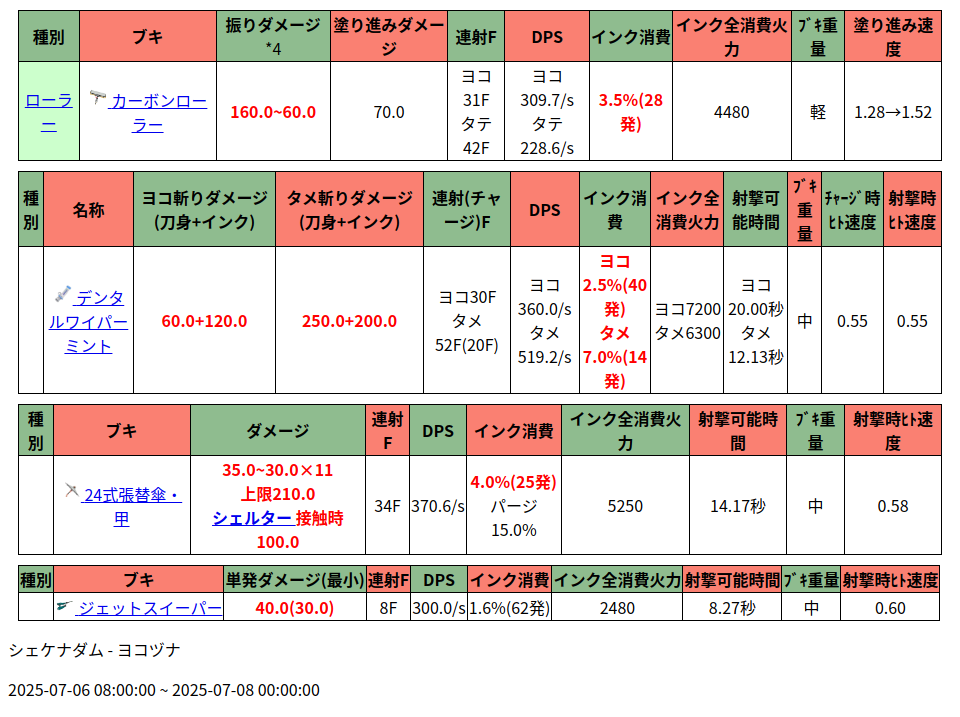
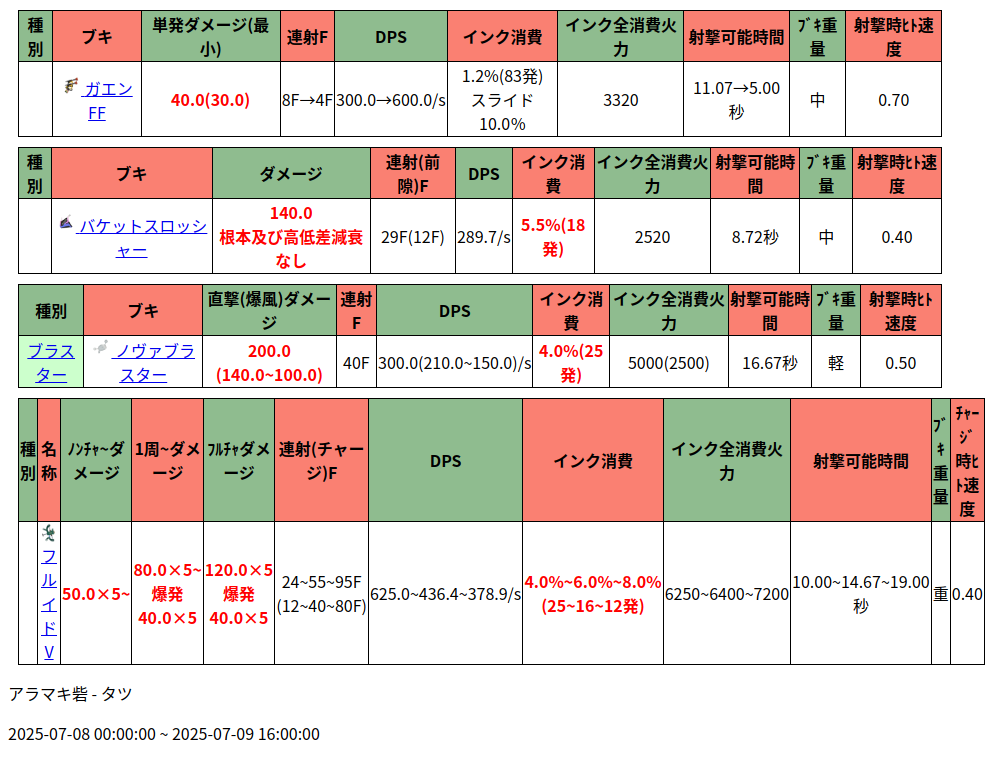
Automated changes by GitHub Actions

diff --git a/salmonRun.html b/salmonRun.html
@@ -1,1 +1,1 @@
-<head><meta charset="UTF-8"><style>table{border-collapse: collapse;border: 1px solid black;margin:10px;}td, th {border: 1px solid black;}</style></head><table><thead> <tr>  <td style="background-color:DarkSeaGreen; text-align:center;">   <strong>    種別   </strong>  </td>  <td style="background-color:Salmon; text-align:center;">   <strong>    ブキ   </strong>  </td>  <td style="background-color:DarkSeaGreen; text-align:center;">   <strong>    振りダメージ   </strong>   <a class="note_super tooltip" data-tippy-allowhtml="true" data-tippy-content='&lt;p&gt;距離によってダメージが変動し、時間経過によって最大0.5倍の減衰がかかる。&lt;/p&gt;&lt;div style="text-align: right;"&gt;&lt;a href="#notefoot_4"&gt;脚注 *4 へ&lt;/a&gt;&lt;/div&gt;' data-tippy-interactive="true" data-tippy-theme="light" id="notetext_4">    *4   </a>  </td>  <td style="background-color:Salmon; text-align:center;">   <strong>    塗り進みダメージ   </strong>  </td>  <td style="background-color:DarkSeaGreen; text-align:center;">   <strong>    連射F   </strong>  </td>  <td style="background-color:Salmon; text-align:center;">   <strong>    DPS   </strong>  </td>  <td style="background-color:DarkSeaGreen; text-align:center;">   <strong>    インク消費   </strong>  </td>  <td style="background-color:Salmon; text-align:center;">   <strong>    インク全消費火力   </strong>  </td>  <td style="background-color:DarkSeaGreen; text-align:center;">   <strong>    ﾌﾞｷ重量   </strong>  </td>  <td style="background-color:Salmon; text-align:center;">   <strong>    塗り進み速度   </strong>  </td> </tr></thead><tr> <td rowspan="6" style="background-color:#ccffcc; text-align:center;">  <a class="rel-wiki-page" href="/splatoon3mix/%E3%83%96%E3%82%AD/%E3%83%AD%E3%83%BC%E3%83%A9%E3%83%BC%E5%B1%9E" title="ブキ/ローラー属">   ローラー  </a> </td> <td style="text-align:center;">  <a data-lightbox="imageset" href="https://cdn.wikiwiki.jp/to/w/splatoon3mix/icon/::attach/%E3%82%AB%E3%83%BC%E3%83%9C%E3%83%B3%E3%83%AD%E3%83%BC%E3%83%A9%E3%83%BC.png?rev=2d3ede75f6260c236cbdeca7d4f8b50d&amp;t=20220905220112" title="カーボンローラー">   <img alt="カーボンローラー" height="20" loading="lazy" src="https://cdn.wikiwiki.jp/to/w/splatoon3mix/icon/::ref/%E3%82%AB%E3%83%BC%E3%83%9C%E3%83%B3%E3%83%AD%E3%83%BC%E3%83%A9%E3%83%BC.png?rev=2d3ede75f6260c236cbdeca7d4f8b50d&amp;t=20220905220112" title="カーボンローラー" width="20"/>  </a>  <a class="rel-wiki-page" href="/splatoon3mix/%E3%83%96%E3%82%AD/%E3%82%AB%E3%83%BC%E3%83%9C%E3%83%B3%E3%83%AD%E3%83%BC%E3%83%A9%E3%83%BC" title="ブキ/カーボンローラー">   カーボンローラー  </a> </td> <td style="text-align:center;">  <span class="wikicolor" style="color:Red">   <strong>    160.0~60.0   </strong>  </span> </td> <td style="text-align:center;">  70.0 </td> <td style="text-align:center;">  ヨコ31F  <br class="spacer"/>  タテ42F </td> <td style="text-align:center;">  ヨコ309.7/s  <br class="spacer"/>  タテ228.6/s </td> <td style="text-align:center;">  <span class="wikicolor" style="color:Red">   <strong>    3.5%(28発)   </strong>  </span> </td> <td style="text-align:center;">  4480 </td> <td style="text-align:center;">  軽 </td> <td style="text-align:center;">  1.28→1.52 </td></tr></table><table><thead> <tr>  <td style="background-color:DarkSeaGreen; text-align:center;">   <strong>    種別   </strong>  </td>  <td style="background-color:Salmon; text-align:center;">   <strong>    名称   </strong>  </td>  <td style="background-color:DarkSeaGreen; text-align:center;">   <strong>    ヨコ斬りダメージ(刀身+インク)   </strong>  </td>  <td style="background-color:Salmon; text-align:center;">   <strong>    タメ斬りダメージ(刀身+インク)   </strong>  </td>  <td style="background-color:DarkSeaGreen; text-align:center;">   <strong>    連射(チャージ)F   </strong>  </td>  <td style="background-color:Salmon; text-align:center;">   <strong>    DPS   </strong>  </td>  <td style="background-color:DarkSeaGreen; text-align:center;">   <strong>    インク消費   </strong>  </td>  <td style="background-color:Salmon; text-align:center;">   <strong>    インク全消費火力   </strong>  </td>  <td style="background-color:DarkSeaGreen; text-align:center;">   <strong>    射撃可能時間   </strong>  </td>  <td style="background-color:Salmon; text-align:center;">   <strong>    ﾌﾞｷ重量   </strong>  </td>  <td style="background-color:DarkSeaGreen; text-align:center;">   <strong>    ﾁｬｰｼﾞ時ﾋﾄ速度   </strong>  </td>  <td style="background-color:Salmon; text-align:center;">   <strong>    射撃時ﾋﾄ速度   </strong>  </td> </tr></thead><tr><td></td> <td style="text-align:center;">  <a data-lightbox="imageset" href="https://cdn.wikiwiki.jp/to/w/splatoon3mix/icon/::attach/%E3%83%87%E3%83%B3%E3%82%BF%E3%83%AB%E3%83%AF%E3%82%A4%E3%83%91%E3%83%BC%E3%83%9F%E3%83%B3%E3%83%88.png?rev=736086270d4b8468d43786bb5e35c5ba&amp;t=20240603134347" title="デンタルワイパーミント">   <img alt="デンタルワイパーミント" height="20" loading="lazy" src="https://cdn.wikiwiki.jp/to/w/splatoon3mix/icon/::ref/%E3%83%87%E3%83%B3%E3%82%BF%E3%83%AB%E3%83%AF%E3%82%A4%E3%83%91%E3%83%BC%E3%83%9F%E3%83%B3%E3%83%88.png.webp?rev=736086270d4b8468d43786bb5e35c5ba&amp;t=20240603134347" title="デンタルワイパーミント" width="20"/>  </a>  <a class="rel-wiki-page" href="/splatoon3mix/%E3%83%96%E3%82%AD/%E3%83%87%E3%83%B3%E3%82%BF%E3%83%AB%E3%83%AF%E3%82%A4%E3%83%91%E3%83%BC%E3%83%9F%E3%83%B3%E3%83%88" title="ブキ/デンタルワイパーミント">   デンタルワイパーミント  </a> </td> <td style="text-align:center;">  <span class="wikicolor" style="color:Red">   <strong>    60.0+120.0   </strong>  </span> </td> <td style="text-align:center;">  <span class="wikicolor" style="color:Red">   <strong>    250.0+200.0   </strong>  </span> </td> <td style="text-align:center;">  ヨコ30F  <br class="spacer"/>  タメ52F(20F) </td> <td style="text-align:center;">  ヨコ360.0/s  <br class="spacer"/>  タメ519.2/s </td> <td style="text-align:center;">  <span class="wikicolor" style="color:Red">   <strong>    ヨコ2.5%(40発)    <br class="spacer"/>    タメ7.0%(14発)   </strong>  </span> </td> <td style="text-align:center;">  ヨコ7200  <br class="spacer"/>  タメ6300 </td> <td style="text-align:center;">  ヨコ20.00秒  <br class="spacer"/>  タメ12.13秒 </td> <td style="text-align:center;">  中 </td> <td style="text-align:center;">  0.55 </td> <td style="text-align:center;">  0.55 </td></tr></table><table><thead> <tr>  <td style="background-color:DarkSeaGreen; text-align:center;">   <strong>    種別   </strong>  </td>  <td style="background-color:Salmon; text-align:center;">   <strong>    ブキ   </strong>  </td>  <td style="background-color:DarkSeaGreen; text-align:center;">   <strong>    ダメージ   </strong>  </td>  <td style="background-color:Salmon; text-align:center;">   <strong>    連射F   </strong>  </td>  <td style="background-color:DarkSeaGreen; text-align:center;">   <strong>    DPS   </strong>  </td>  <td style="background-color:Salmon; text-align:center;">   <strong>    インク消費   </strong>  </td>  <td style="background-color:DarkSeaGreen; text-align:center;">   <strong>    インク全消費火力   </strong>  </td>  <td style="background-color:Salmon; text-align:center;">   <strong>    射撃可能時間   </strong>  </td>  <td style="background-color:DarkSeaGreen; text-align:center;">   <strong>    ﾌﾞｷ重量   </strong>  </td>  <td style="background-color:Salmon; text-align:center;">   <strong>    射撃時ﾋﾄ速度   </strong>  </td> </tr></thead><tr><td></td> <td style="text-align:center;">  <a data-lightbox="imageset" href="https://cdn.wikiwiki.jp/to/w/splatoon3mix/icon/::attach/24%E5%BC%8F%E5%BC%B5%E6%9B%BF%E5%82%98%E3%83%BB%E7%94%B2.png?rev=90601185def0aa32e513a2fd8fac9f37&amp;t=20240302124644" title="24式張替傘・甲">   <img alt="24式張替傘・甲" height="20" loading="lazy" src="https://cdn.wikiwiki.jp/to/w/splatoon3mix/icon/::ref/24%E5%BC%8F%E5%BC%B5%E6%9B%BF%E5%82%98%E3%83%BB%E7%94%B2.png?rev=90601185def0aa32e513a2fd8fac9f37&amp;t=20240302124644" title="24式張替傘・甲" width="20"/>  </a>  <a class="rel-wiki-page" href="/splatoon3mix/%E3%83%96%E3%82%AD/24%E5%BC%8F%E5%BC%B5%E6%9B%BF%E5%82%98%E3%83%BB%E7%94%B2" title="ブキ/24式張替傘・甲">   24式張替傘・甲  </a> </td> <td style="text-align:center;">  <span class="wikicolor" style="color:Red">   <strong>    35.0~30.0×11    <br class="spacer"/>    上限210.0    <br class="spacer"/>    <a class="rel-wiki-page" href="/splatoon3mix/%E3%83%96%E3%82%AD/%E3%82%B7%E3%82%A7%E3%83%AB%E3%82%BF%E3%83%BC%E5%B1%9E" title="ブキ/シェルター属">     シェルター    </a>    接触時100.0   </strong>  </span> </td> <td style="text-align:center;">  34F </td> <td style="text-align:center;">  370.6/s </td> <td style="text-align:center;">  <span class="wikicolor" style="color:Red">   <strong>    4.0%(25発)   </strong>  </span>  <br class="spacer"/>  パージ15.0% </td> <td style="text-align:center;">  5250 </td> <td style="text-align:center;">  14.17秒 </td> <td style="text-align:center;">  中 </td> <td style="text-align:center;">  0.58 </td></tr></table><table><thead> <tr>  <td style="background-color:DarkSeaGreen; text-align:center;">   <strong>    種別   </strong>  </td>  <td style="background-color:Salmon; text-align:center;">   <strong>    ブキ   </strong>  </td>  <td style="background-color:DarkSeaGreen; text-align:center;">   <strong>    単発ダメージ(最小)   </strong>  </td>  <td style="background-color:Salmon; text-align:center;">   <strong>    連射F   </strong>  </td>  <td style="background-color:DarkSeaGreen; text-align:center;">   <strong>    DPS   </strong>  </td>  <td style="background-color:Salmon; text-align:center;">   <strong>    インク消費   </strong>  </td>  <td style="background-color:DarkSeaGreen; text-align:center;">   <strong>    インク全消費火力   </strong>  </td>  <td style="background-color:Salmon; text-align:center;">   <strong>    射撃可能時間   </strong>  </td>  <td style="background-color:DarkSeaGreen; text-align:center;">   <strong>    ﾌﾞｷ重量   </strong>  </td>  <td style="background-color:Salmon; text-align:center;">   <strong>    射撃時ﾋﾄ速度   </strong>  </td> </tr></thead><tr><td></td> <td style="text-align:center;">  <a data-lightbox="imageset" href="https://cdn.wikiwiki.jp/to/w/splatoon3mix/icon/::attach/%E3%82%B8%E3%82%A7%E3%83%83%E3%83%88%E3%82%B9%E3%82%A4%E3%83%BC%E3%83%91%E3%83%BC.png?rev=859c320f86fd727ddbec3f1526388c2a&amp;t=20220905214623" title="ジェットスイーパー">   <img alt="ジェットスイーパー" height="20" loading="lazy" src="https://cdn.wikiwiki.jp/to/w/splatoon3mix/icon/::ref/%E3%82%B8%E3%82%A7%E3%83%83%E3%83%88%E3%82%B9%E3%82%A4%E3%83%BC%E3%83%91%E3%83%BC.png?rev=859c320f86fd727ddbec3f1526388c2a&amp;t=20220905214623" title="ジェットスイーパー" width="20"/>  </a>  <a class="rel-wiki-page" href="/splatoon3mix/%E3%83%96%E3%82%AD/%E3%82%B8%E3%82%A7%E3%83%83%E3%83%88%E3%82%B9%E3%82%A4%E3%83%BC%E3%83%91%E3%83%BC" title="ブキ/ジェットスイーパー">   ジェットスイーパー  </a> </td> <td style="text-align:center;">  <span class="wikicolor" style="color:Red">   <strong>    40.0(30.0)   </strong>  </span> </td> <td style="text-align:center;">  8F </td> <td style="text-align:center;">  300.0/s </td> <td style="text-align:center;">  1.6%(62発) </td> <td style="text-align:center;">  2480 </td> <td style="text-align:center;">  8.27秒 </td> <td style="text-align:center;">  中 </td> <td style="text-align:center;">  0.60 </td></tr></table><p>シェケナダム - ヨコヅナ</p><p>2025-07-06 08:00:00 ~ 2025-07-08 00:00:00</p>
+<head><meta charset="UTF-8"><style>table{border-collapse: collapse;border: 1px solid black;margin:10px;}td, th {border: 1px solid black;}</style></head><table><thead> <tr>  <td style="background-color:DarkSeaGreen; text-align:center;">   <strong>    種別   </strong>  </td>  <td style="background-color:Salmon; text-align:center;">   <strong>    ブキ   </strong>  </td>  <td style="background-color:DarkSeaGreen; text-align:center;">   <strong>    単発ダメージ(最小)   </strong>  </td>  <td style="background-color:Salmon; text-align:center;">   <strong>    連射F   </strong>  </td>  <td style="background-color:DarkSeaGreen; text-align:center;">   <strong>    DPS   </strong>  </td>  <td style="background-color:Salmon; text-align:center;">   <strong>    インク消費   </strong>  </td>  <td style="background-color:DarkSeaGreen; text-align:center;">   <strong>    インク全消費火力   </strong>  </td>  <td style="background-color:Salmon; text-align:center;">   <strong>    射撃可能時間   </strong>  </td>  <td style="background-color:DarkSeaGreen; text-align:center;">   <strong>    ﾌﾞｷ重量   </strong>  </td>  <td style="background-color:Salmon; text-align:center;">   <strong>    射撃時ﾋﾄ速度   </strong>  </td> </tr></thead><tr><td></td> <td style="text-align:center;">  <a data-lightbox="imageset" href="https://cdn.wikiwiki.jp/to/w/splatoon3mix/icon/::attach/%E3%82%AC%E3%82%A8%E3%83%B3FF.png?rev=c59ffedf75a4c75c89c11f6b80984cd3&amp;t=20240302124703" title="ガエンFF">   <img alt="ガエンFF" height="20" loading="lazy" src="https://cdn.wikiwiki.jp/to/w/splatoon3mix/icon/::ref/%E3%82%AC%E3%82%A8%E3%83%B3FF.png.webp?rev=c59ffedf75a4c75c89c11f6b80984cd3&amp;t=20240302124703" title="ガエンFF" width="20"/>  </a>  <a class="rel-wiki-page" href="/splatoon3mix/%E3%83%96%E3%82%AD/%E3%82%AC%E3%82%A8%E3%83%B3FF" title="ブキ/ガエンFF">   ガエンFF  </a> </td> <td style="text-align:center;">  <span class="wikicolor" style="color:Red">   <strong>    40.0(30.0)   </strong>  </span> </td> <td style="text-align:center;">  8F→4F </td> <td style="text-align:center;">  300.0→600.0/s </td> <td style="text-align:center;">  1.2%(83発)  <br class="spacer"/>  スライド10.0％ </td> <td style="text-align:center;">  3320 </td> <td style="text-align:center;">  11.07→5.00秒 </td> <td style="text-align:center;">  中 </td> <td style="text-align:center;">  0.70 </td></tr></table><table><thead> <tr>  <td style="background-color:DarkSeaGreen; text-align:center;">   <strong>    種別   </strong>  </td>  <td style="background-color:Salmon; text-align:center;">   <strong>    ブキ   </strong>  </td>  <td style="background-color:DarkSeaGreen; text-align:center;">   <strong>    ダメージ   </strong>  </td>  <td style="background-color:Salmon; text-align:center;">   <strong>    連射(前隙)F   </strong>  </td>  <td style="background-color:DarkSeaGreen; text-align:center;">   <strong>    DPS   </strong>  </td>  <td style="background-color:Salmon; text-align:center;">   <strong>    インク消費   </strong>  </td>  <td style="background-color:DarkSeaGreen; text-align:center;">   <strong>    インク全消費火力   </strong>  </td>  <td style="background-color:Salmon; text-align:center;">   <strong>    射撃可能時間   </strong>  </td>  <td style="background-color:DarkSeaGreen; text-align:center;">   <strong>    ﾌﾞｷ重量   </strong>  </td>  <td style="background-color:Salmon; text-align:center;">   <strong>    射撃時ﾋﾄ速度   </strong>  </td> </tr></thead><tr><td></td> <td style="text-align:center;">  <a data-lightbox="imageset" href="https://cdn.wikiwiki.jp/to/w/splatoon3mix/icon/::attach/%E3%83%90%E3%82%B1%E3%83%83%E3%83%88%E3%82%B9%E3%83%AD%E3%83%83%E3%82%B7%E3%83%A3%E3%83%BC.png?rev=a584176d80465fdf6e5790982da674ec&amp;t=20220906103852" title="バケットスロッシャー">   <img alt="バケットスロッシャー" height="20" loading="lazy" src="https://cdn.wikiwiki.jp/to/w/splatoon3mix/icon/::ref/%E3%83%90%E3%82%B1%E3%83%83%E3%83%88%E3%82%B9%E3%83%AD%E3%83%83%E3%82%B7%E3%83%A3%E3%83%BC.png?rev=a584176d80465fdf6e5790982da674ec&amp;t=20220906103852" title="バケットスロッシャー" width="20"/>  </a>  <a class="rel-wiki-page" href="/splatoon3mix/%E3%83%96%E3%82%AD/%E3%83%90%E3%82%B1%E3%83%83%E3%83%88%E3%82%B9%E3%83%AD%E3%83%83%E3%82%B7%E3%83%A3%E3%83%BC" title="ブキ/バケットスロッシャー">   バケットスロッシャー  </a> </td> <td style="text-align:center;">  <span class="wikicolor" style="color:Red">   <strong>    140.0    <br class="spacer"/>    根本及び高低差減衰なし   </strong>  </span> </td> <td style="text-align:center;">  29F(12F) </td> <td style="text-align:center;">  289.7/s </td> <td style="text-align:center;">  <span class="wikicolor" style="color:Red">   <strong>    5.5%(18発)   </strong>  </span> </td> <td style="text-align:center;">  2520 </td> <td style="text-align:center;">  8.72秒 </td> <td style="text-align:center;">  中 </td> <td style="text-align:center;">  0.40 </td></tr></table><table><thead> <tr>  <td style="background-color:DarkSeaGreen; text-align:center;">   <strong>    種別   </strong>  </td>  <td style="background-color:Salmon; text-align:center;">   <strong>    ブキ   </strong>  </td>  <td style="background-color:DarkSeaGreen; text-align:center;">   <strong>    直撃(爆風)ダメージ   </strong>  </td>  <td style="background-color:Salmon; text-align:center;">   <strong>    連射F   </strong>  </td>  <td style="background-color:DarkSeaGreen; text-align:center;">   <strong>    DPS   </strong>  </td>  <td style="background-color:Salmon; text-align:center;">   <strong>    インク消費   </strong>  </td>  <td style="background-color:DarkSeaGreen; text-align:center;">   <strong>    インク全消費火力   </strong>  </td>  <td style="background-color:Salmon; text-align:center;">   <strong>    射撃可能時間   </strong>  </td>  <td style="background-color:DarkSeaGreen; text-align:center;">   <strong>    ﾌﾞｷ重量   </strong>  </td>  <td style="background-color:Salmon; text-align:center;">   <strong>    射撃時ﾋﾄ速度   </strong>  </td> </tr></thead><tr> <td rowspan="8" style="background-color:#ccffcc; text-align:center;">  <a class="rel-wiki-page" href="/splatoon3mix/%E3%83%96%E3%82%AD/%E3%83%96%E3%83%A9%E3%82%B9%E3%82%BF%E3%83%BC%E5%B1%9E" title="ブキ/ブラスター属">   ブラスター  </a> </td> <td style="text-align:center;">  <a data-lightbox="imageset" href="https://cdn.wikiwiki.jp/to/w/splatoon3mix/icon/::attach/%E3%83%8E%E3%83%B4%E3%82%A1%E3%83%96%E3%83%A9%E3%82%B9%E3%82%BF%E3%83%BC.png?rev=903f8c162cfbf6fbb2b194759c8bfc7c&amp;t=20220906104611" title="ノヴァブラスター">   <img alt="ノヴァブラスター" height="20" loading="lazy" src="https://cdn.wikiwiki.jp/to/w/splatoon3mix/icon/::ref/%E3%83%8E%E3%83%B4%E3%82%A1%E3%83%96%E3%83%A9%E3%82%B9%E3%82%BF%E3%83%BC.png?rev=903f8c162cfbf6fbb2b194759c8bfc7c&amp;t=20220906104611" title="ノヴァブラスター" width="20"/>  </a>  <a class="rel-wiki-page" href="/splatoon3mix/%E3%83%96%E3%82%AD/%E3%83%8E%E3%83%B4%E3%82%A1%E3%83%96%E3%83%A9%E3%82%B9%E3%82%BF%E3%83%BC" title="ブキ/ノヴァブラスター">   ノヴァブラスター  </a> </td> <td style="text-align:center;">  <span class="wikicolor" style="color:Red">   <strong>    200.0    <br class="spacer"/>    (140.0~100.0)   </strong>  </span> </td> <td style="text-align:center;">  40F </td> <td style="text-align:center;">  300.0(210.0~150.0)/s </td> <td style="text-align:center;">  <span class="wikicolor" style="color:Red">   <strong>    4.0%(25発)   </strong>  </span> </td> <td style="text-align:center;">  5000(2500) </td> <td style="text-align:center;">  16.67秒 </td> <td style="text-align:center;">  軽 </td> <td style="text-align:center;">  0.50 </td></tr></table><table><thead> <tr>  <td style="background-color:DarkSeaGreen; text-align:center;">   <strong>    種別   </strong>  </td>  <td style="background-color:Salmon; text-align:center;">   <strong>    名称   </strong>  </td>  <td style="background-color:DarkSeaGreen; text-align:center;">   <strong>    ﾉﾝﾁｬ~ダメージ   </strong>  </td>  <td style="background-color:Salmon; text-align:center;">   <strong>    1周~ダメージ   </strong>  </td>  <td style="background-color:DarkSeaGreen; text-align:center;">   <strong>    ﾌﾙﾁｬダメージ   </strong>  </td>  <td style="background-color:Salmon; text-align:center;">   <strong>    連射(チャージ)F   </strong>  </td>  <td style="background-color:DarkSeaGreen; text-align:center;">   <strong>    DPS   </strong>  </td>  <td style="background-color:Salmon; text-align:center;">   <strong>    インク消費   </strong>  </td>  <td style="background-color:DarkSeaGreen; text-align:center;">   <strong>    インク全消費火力   </strong>  </td>  <td style="background-color:Salmon; text-align:center;">   <strong>    射撃可能時間   </strong>  </td>  <td style="background-color:DarkSeaGreen; text-align:center;">   <strong>    ﾌﾞｷ重量   </strong>  </td>  <td style="background-color:Salmon; text-align:center;">   <strong>    ﾁｬｰｼﾞ時ﾋﾄ速度   </strong>  </td> </tr></thead><tr><td></td> <td style="text-align:center;">  <a data-lightbox="imageset" href="https://cdn.wikiwiki.jp/to/w/splatoon3mix/icon/::attach/%E3%83%95%E3%83%AB%E3%82%A4%E3%83%89V.png?rev=c944225c8294454c88576758a02a0bfc&amp;t=20240603134357" title="フルイドV">   <img alt="フルイドV" height="20" loading="lazy" src="https://cdn.wikiwiki.jp/to/w/splatoon3mix/icon/::ref/%E3%83%95%E3%83%AB%E3%82%A4%E3%83%89V.png.webp?rev=c944225c8294454c88576758a02a0bfc&amp;t=20240603134357" title="フルイドV" width="20"/>  </a>  <a class="rel-wiki-page" href="/splatoon3mix/%E3%83%96%E3%82%AD/%E3%83%95%E3%83%AB%E3%82%A4%E3%83%89V" title="ブキ/フルイドV">   フルイドV  </a> </td> <td style="text-align:center;">  <span class="wikicolor" style="color:Red">   <strong>    50.0×5~   </strong>  </span> </td> <td style="text-align:center;">  <span class="wikicolor" style="color:Red">   <strong>    80.0×5~    <br class="spacer"/>    爆発40.0×5   </strong>  </span> </td> <td style="text-align:center;">  <span class="wikicolor" style="color:Red">   <strong>    120.0×5    <br class="spacer"/>    爆発40.0×5   </strong>  </span> </td> <td style="text-align:center;">  24~55~95F  <br class="spacer"/>  (12~40~80F) </td> <td style="text-align:center;">  625.0~436.4~378.9/s </td> <td style="text-align:center;">  <span class="wikicolor" style="color:Red">   <strong>    4.0%~6.0%~8.0%    <br class="spacer"/>    (25~16~12発)   </strong>  </span> </td> <td style="text-align:center;">  6250~6400~7200 </td> <td style="text-align:center;">  10.00~14.67~19.00秒 </td> <td style="text-align:center;">  重 </td> <td style="text-align:center;">  0.40 </td></tr></table><p>アラマキ砦 - タツ</p><p>2025-07-08 00:00:00 ~ 2025-07-09 16:00:00</p>
